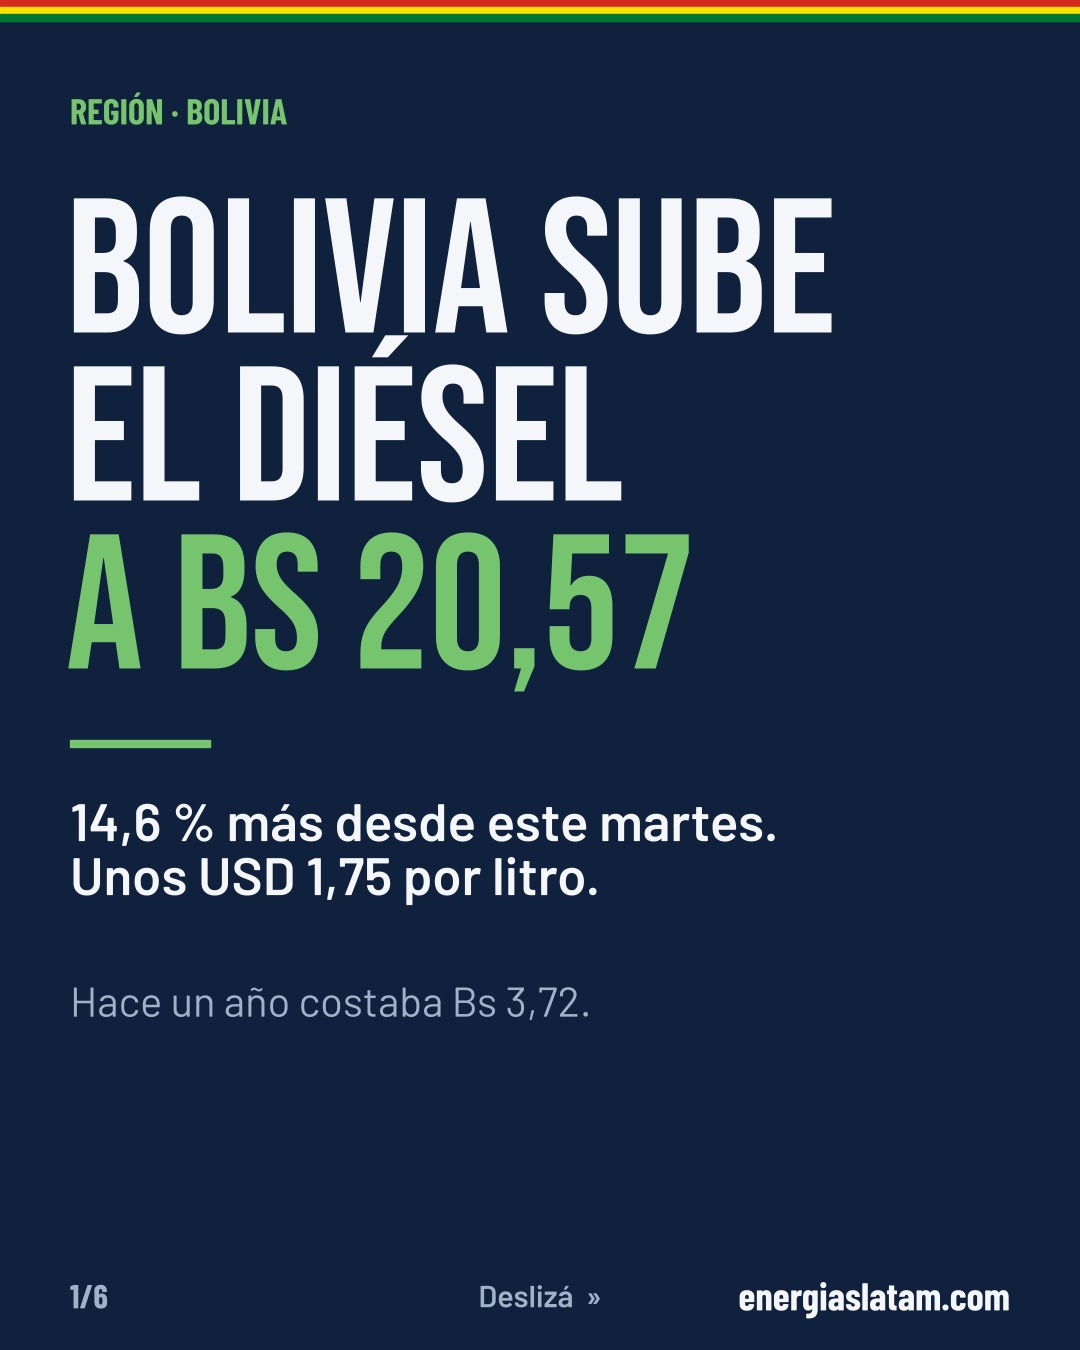
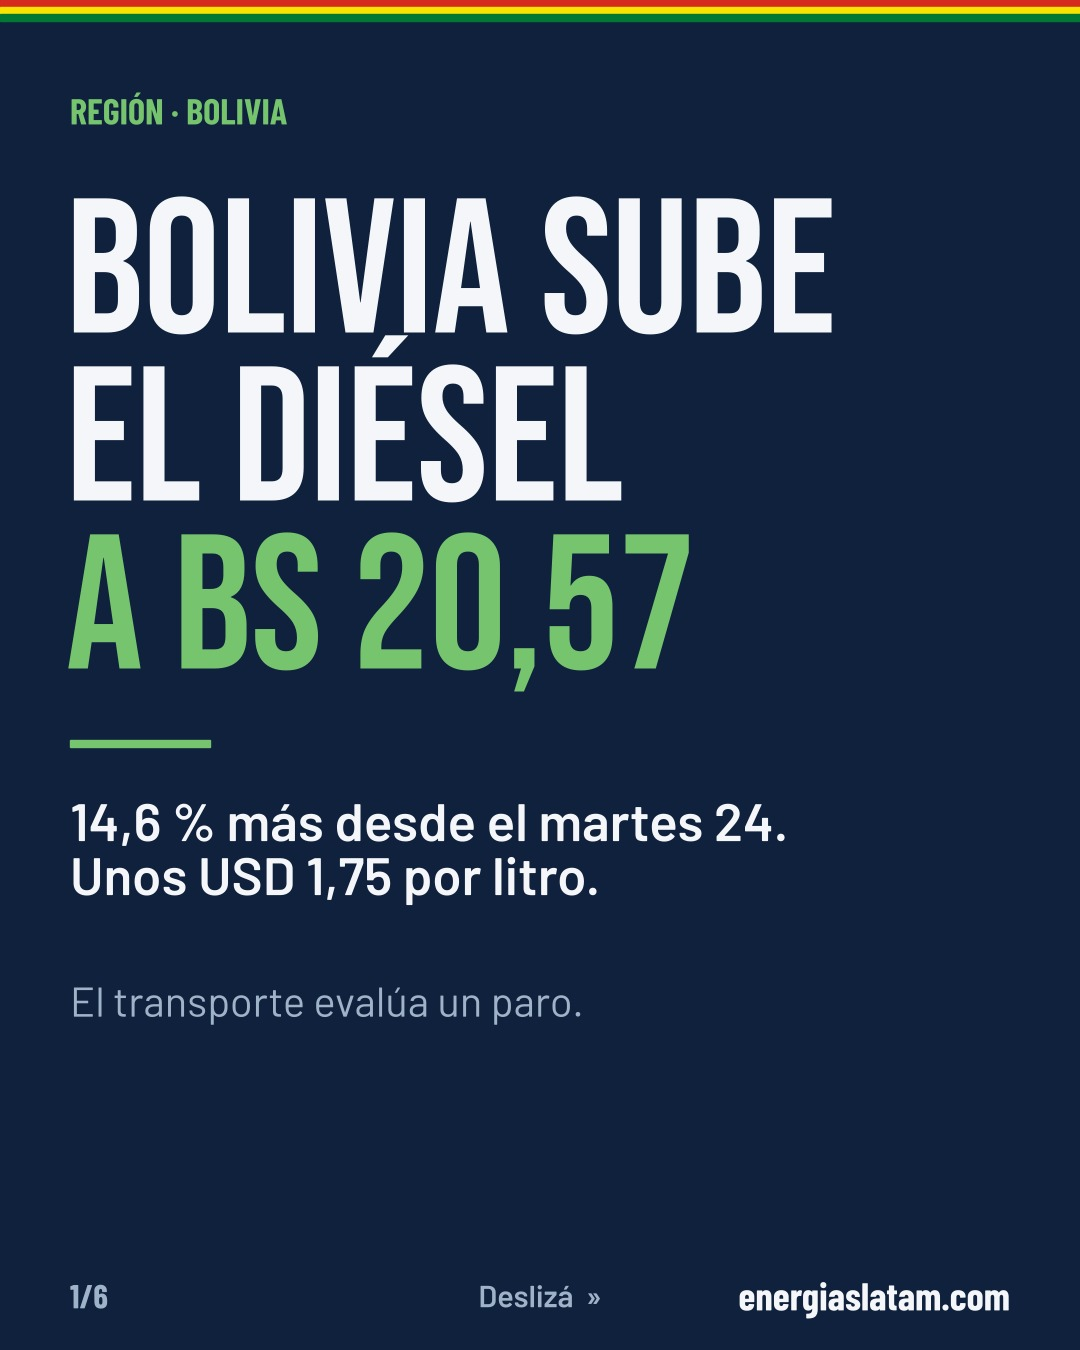
Borrador Bolivia: actualiza al 25/11 con la reacción del transporte
Claude-Session: https://claude.ai/code/session_01HHGRFrapr8AXyd2C4Baz1m

Changed region(s): [[0.0611, 0.7156, 0.55, 0.7778], [0.4583, 0.5911, 0.7333, 0.6222]]

diff --git a/notas/2026-11-24-cuanto-cuesta-el-diesel-en-bolivia-sube-a-bs-20-57.html b/notas/2026-11-24-cuanto-cuesta-el-diesel-en-bolivia-sube-a-bs-20-57.html
@@ -1,6 +1,6 @@
 <figure><img src="img/2026-11-24-cuanto-cuesta-el-diesel-en-bolivia-sube-a-bs-20-57-1.jpg" alt="Precio del litro de diésel en Bolivia: Bs 3,72 hasta diciembre de 2025, Bs 9,80 desde entonces, Bs 17,95 desde septiembre de 2026 y Bs 20,57 desde el 24 de noviembre"><figcaption>El litro de diésel en Bolivia, escalón por escalón.</figcaption></figure>
 
-<p>El litro de diésel cuesta en Bolivia <b>Bs 20,57</b> desde este martes 24 de noviembre. Son unos USD 1,75 al tipo de cambio oficial. Hasta el lunes costaba Bs 17,95: la suba es de Bs 2,62 por litro, un 14,6 %.</p>
+<p>El litro de diésel cuesta en Bolivia <b>Bs 20,57</b> desde el martes 24 de noviembre. Son unos USD 1,75 al tipo de cambio oficial. Hasta el lunes costaba Bs 17,95: la suba es de Bs 2,62 por litro, un 14,6 %.</p>
 
 <p>El nuevo precio lo comunicó la Agencia Nacional de Hidrocarburos (ANH) cerca de la medianoche y rige desde las 00:00 para la venta en estaciones de servicio. La gasolina especial no cambió: sigue en Bs 6,96, con subsidio.</p>
 
@@ -14,11 +14,13 @@
 
 <p>La ANH agregó otros dos motivos: reducir el costo fiscal y acercar el precio al de los países vecinos, para que deje de ser negocio sacar el combustible del país.</p>
 
-<h2>De Bs 3,72 a Bs 20,57 en un año</h2>
+<h2>De Bs 3,72 a Bs 20,57 en un año, y el transporte en emergencia</h2>
 
-<p>Hace un año, el diésel boliviano costaba Bs 3,72 por litro, congelado desde hacía dos décadas. En diciembre de 2025 pasó a Bs 9,80. En septiembre, con el nuevo régimen, saltó a Bs 17,95. Con el ajuste de hoy, el litro vale más del doble que en agosto y cinco veces y media lo que costaba hace un año.</p>
+<p>Hace un año, el diésel boliviano costaba Bs 3,72 por litro, congelado desde hacía dos décadas. En diciembre de 2025 pasó a Bs 9,80. En septiembre, con el nuevo régimen, saltó a Bs 17,95. Con este ajuste, el litro vale más del doble que en agosto y cinco veces y media lo que costaba hace un año.</p>
 
-<p>El transporte reaccionó en el día. La Confederación de Choferes rechazó la suba y convocó a un ampliado de emergencia. Desde la Cámara de Transporte de La Paz, su presidente, Álvaro Ayllón, advirtió que los fletes vigentes se habían pactado con el precio anterior.</p>
+<p>El transporte reaccionó enseguida. La Confederación de Choferes convocó a un ampliado de emergencia para el jueves 26 en La Paz. El transporte pesado de Oruro, que el martes bloqueó un acceso a la ciudad, propuso un paro nacional indefinido, con las unidades guardadas y sin mover carga de importación ni de exportación. Su presidente, Jorge Gutiérrez, pide que el litro vuelva a Bs 17,95 y que se derogue el decreto.</p>
+
+<p>La cuenta que hace el sector es simple: llenar un tanque de 500 litros pasó de Bs 8.975 a Bs 10.285, unos Bs 1.310 más por carga. Los fletes vigentes se habían pactado con el precio anterior, advirtió Álvaro Ayllón, presidente de la Cámara de Transporte de La Paz. Los comerciantes agremiados también se declararon en emergencia.</p>
 
 <h2>El precio alcanzó al costo de los privados</h2>
 

diff --git a/herramientas/bo24_carr.py b/herramientas/bo24_carr.py
@@ -1,4 +1,4 @@
-# Carrusel 1080x1350 · Paraguay · Bolivia · diésel a Bs 20,57 · 24/11/2026
+# Carrusel 1080x1350 · Paraguay · Bolivia · diésel a Bs 20,57 · 25/11/2026
 import matplotlib; matplotlib.use('Agg')
 import matplotlib.pyplot as plt
 from matplotlib import font_manager as fm
@@ -48,9 +48,9 @@ fig,ax=base(1,'REGIÓN · BOLIVIA')
 for i,(l,c2,sz) in enumerate([('BOLIVIA SUBE',W,138),('EL DIÉSEL',W,138),('A BS 20,57',G,138)]):
     ax.text(66,275+i*168,l,fontfamily=BB,fontsize=sz,color=c2,va='center')
 ax.add_patch(Rectangle((70,740),140,7,color=G))
-for i,l in enumerate(['14,6 % más desde este martes.','Unos USD 1,75 por litro.']):
+for i,l in enumerate(['14,6 % más desde el martes 24.','Unos USD 1,75 por litro.']):
     ax.text(70,820+i*54,l,fontfamily=B,fontweight='semibold',fontsize=38,color=W,va='center')
-ax.text(70,1000,'Hace un año costaba Bs 3,72.',fontfamily=B,fontsize=30,color=M,va='center')
+ax.text(70,1000,'El transporte evalúa un paro.',fontfamily=B,fontsize=30,color=M,va='center')
 save(fig,1)
 
 fig,ax=base(2,'EL AJUSTE')
@@ -80,7 +80,7 @@ fig,ax=base(5,'QUÉ SIGNIFICA PARA LA ESTACIÓN')
 y=title(ax,['MÁS CARO QUE','EN PARAGUAY'],y0=205,size=100,step=108)
 cards(ax,[('Bolivia: unos USD 1,75 por litro','Paraguay: diésel común a unos USD 1,40'),
           ('La frontera del Chaco se da vuelta','Antes el combustible barato era el boliviano'),
-          ('Una banda concentra el salto','Dos meses quieto y 14,6 % en una noche')],y+40,h=150,gap=24)
+          ('El transporte evalúa un paro','Los choferes definen medidas el jueves 26')],y+40,h=150,gap=24)
 save(fig,5)
 
 fig,ax=base(6,'LA ESTACIÓN DEL FUTURO')
